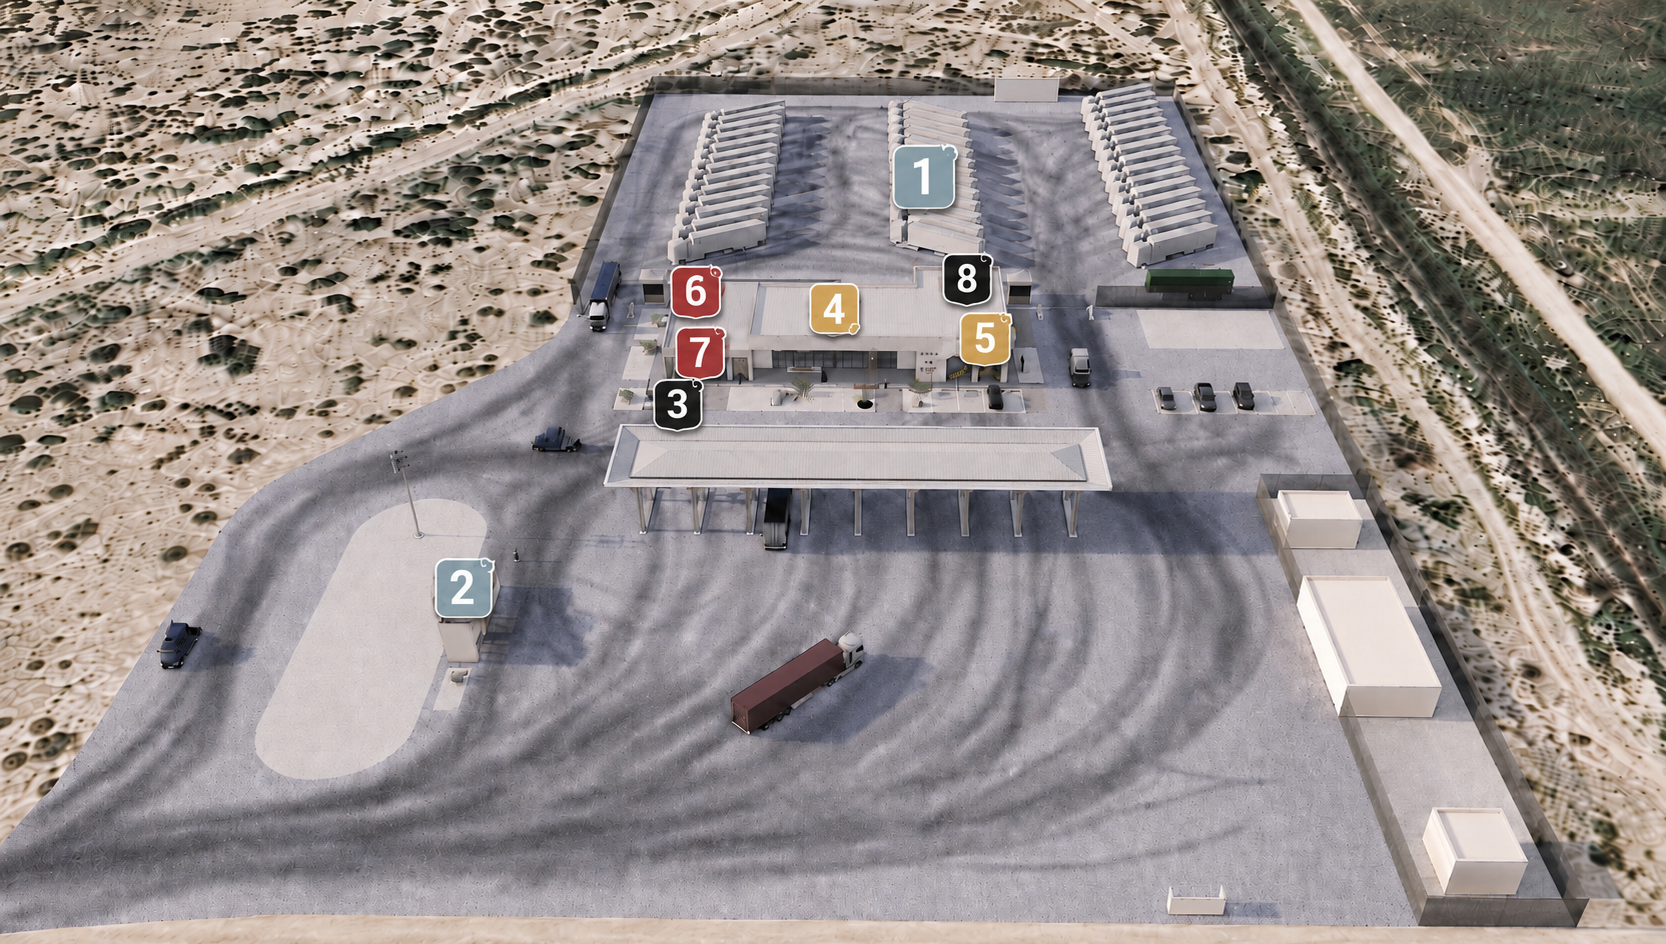
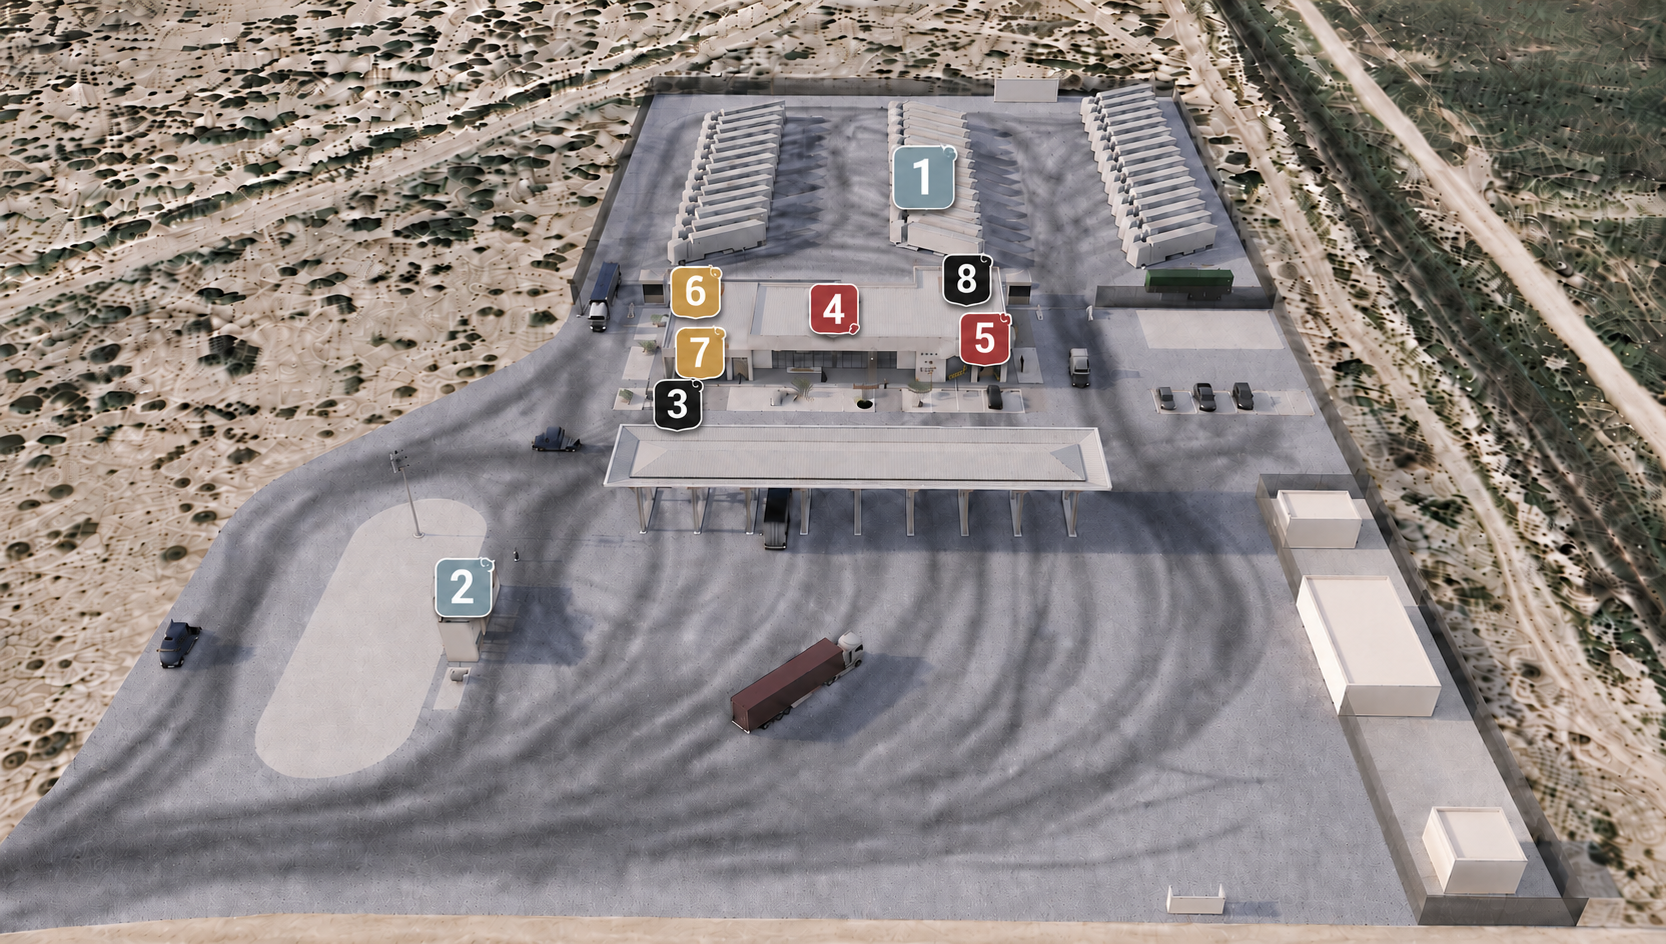
Refine homepage plan preview

diff --git a/index.html b/index.html
@@ -169,23 +169,13 @@
           <p class="eyebrow">Территория</p>
           <h2>План комплекса</h2>
         </div>
-        <div class="plan-layout">
+        <div class="plan-layout plan-layout--full">
           <div class="plan-image reveal">
             <img src="assets/images/territory-plan.png" alt="План территории комплекса DOM с отмеченными зонами">
           </div>
-          <div class="plan-zone-panel reveal">
-            <h3>Основные зоны</h3>
-            <ul class="plan-list">
-              <li><span class="plan-number plan-number--blue">1</span><span>Зона парковки для легкового и грузового транспорта</span></li>
-              <li><span class="plan-number plan-number--blue">2</span><span>Шиномонтаж и сервисная зона</span></li>
-              <li><span class="plan-number plan-number--black">3</span><span>Электрозарядка для автомобилей</span></li>
-              <li><span class="plan-number plan-number--yellow">4</span><span>Магазин с основным торговым залом</span></li>
-              <li><span class="plan-number plan-number--yellow">5</span><span>Ресторан, касса и зона посадки</span></li>
-              <li><span class="plan-number plan-number--red">6</span><span>Душ для посетителей комплекса</span></li>
-              <li><span class="plan-number plan-number--red">7</span><span>Туалет для посетителей комплекса</span></li>
-              <li><span class="plan-number plan-number--black">8</span><span>Гостиница для отдыха в дороге</span></li>
-            </ul>
-          </div>
+        </div>
+        <div class="section-actions reveal">
+          <a class="btn btn-primary" href="plan.html">Посмотреть</a>
         </div>
       </div>
     </section>

diff --git a/plan.html b/plan.html
@@ -31,10 +31,10 @@
               <li><span class="plan-number plan-number--blue">1</span><span>Зона парковки для легкового и грузового транспорта</span></li>
               <li><span class="plan-number plan-number--blue">2</span><span>Шиномонтаж и сервисная зона</span></li>
               <li><span class="plan-number plan-number--black">3</span><span>Электрозарядка для автомобилей</span></li>
-              <li><span class="plan-number plan-number--yellow">4</span><span>Магазин с основным торговым залом</span></li>
-              <li><span class="plan-number plan-number--yellow">5</span><span>Ресторан, касса и зона посадки</span></li>
-              <li><span class="plan-number plan-number--red">6</span><span>Душ для посетителей комплекса</span></li>
-              <li><span class="plan-number plan-number--red">7</span><span>Туалет для посетителей комплекса</span></li>
+              <li><span class="plan-number plan-number--red">4</span><span>Магазин с основным торговым залом</span></li>
+              <li><span class="plan-number plan-number--red">5</span><span>Ресторан, касса и зона посадки</span></li>
+              <li><span class="plan-number plan-number--yellow">6</span><span>Душ для посетителей комплекса</span></li>
+              <li><span class="plan-number plan-number--yellow">7</span><span>Туалет для посетителей комплекса</span></li>
               <li><span class="plan-number plan-number--black">8</span><span>Гостиница для отдыха в дороге</span></li>
             </ul>
           </div>

diff --git a/css/style.css b/css/style.css
@@ -769,6 +769,10 @@ h3 {
   align-items: start;
 }
 
+.plan-layout--full {
+  display: block;
+}
+
 .plan-section-title {
   margin-bottom: 34px;
 }